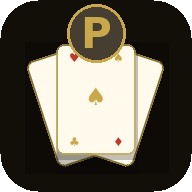
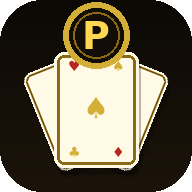
Add files via upload

diff --git a/index.html b/index.html
@@ -236,7 +236,44 @@
   <div id="screen-home" class="screen active">
     <div class="home-header">
       <button class="btn-theme" id="theme-toggle" onclick="toggleTheme()" title="Toggle theme">☀</button>
-      <img src="./icon-192.png" alt="Pattiboard" style="width:72px;height:72px;border-radius:18px;box-shadow:0 4px 20px #00000055;margin-bottom:10px" />
+      <svg xmlns="http://www.w3.org/2000/svg" width="80" height="80" viewBox="0 0 80 80" style="margin-bottom:10px;filter:drop-shadow(0 4px 12px rgba(0,0,0,0.55))">
+  <!-- rounded background -->
+  <rect width="80" height="80" rx="18" fill="url(#bg_grad)"/>
+  <defs>
+    <linearGradient id="bg_grad" x1="0" y1="0" x2="0" y2="1">
+      <stop offset="0%" stop-color="#0f0c06"/>
+      <stop offset="100%" stop-color="#1e1608"/>
+    </linearGradient>
+  </defs>
+  <!-- left card -->
+  <g transform="rotate(-20,40,46)">
+    <rect x="20" y="24" width="30" height="42" rx="3" fill="#fffae6" stroke="#a07820" stroke-width="1"/>
+  </g>
+  <!-- right card -->
+  <g transform="rotate(20,40,46)">
+    <rect x="30" y="24" width="30" height="42" rx="3" fill="#fffae6" stroke="#a07820" stroke-width="1"/>
+  </g>
+  <!-- front card shadow -->
+  <rect x="21" y="29" width="38" height="46" rx="4" fill="rgba(0,0,0,0.25)"/>
+  <!-- front card -->
+  <rect x="21" y="27" width="38" height="46" rx="4" fill="#fffae8"/>
+  <rect x="22.5" y="28.5" width="35" height="43" rx="3" fill="none" stroke="#b08828" stroke-width="1"/>
+  <!-- centre spade -->
+  <text x="40" y="55" font-family="serif" font-size="18" fill="#c9a84c" text-anchor="middle" dominant-baseline="middle">♠</text>
+  <!-- corner pips -->
+  <text x="26" y="35" font-family="serif" font-size="8" fill="#c0392b" text-anchor="middle">♥</text>
+  <text x="54" y="35" font-family="serif" font-size="8" fill="#c9a84c" text-anchor="middle">♠</text>
+  <text x="26" y="67" font-family="serif" font-size="8" fill="#c9a84c" text-anchor="middle">♣</text>
+  <text x="54" y="67" font-family="serif" font-size="8" fill="#c0392b" text-anchor="middle">♦</text>
+  <!-- P badge outer gold ring -->
+  <circle cx="40" cy="16" r="13" fill="#c9a84c"/>
+  <!-- P badge inner dark -->
+  <circle cx="40" cy="16" r="10.5" fill="#120e05"/>
+  <!-- P badge inner ring -->
+  <circle cx="40" cy="16" r="9" fill="none" stroke="#7a5c10" stroke-width="0.8"/>
+  <!-- P letter -->
+  <text x="40" y="16" font-family="DejaVu Sans, Arial, sans-serif" font-weight="bold" font-size="12" fill="#f0c060" text-anchor="middle" dominant-baseline="middle">P</text>
+</svg>
       <h1 class="app-title">Pattiboard</h1>
       <p class="app-subtitle">Rummy Score Tracker</p>
     </div>

diff --git a/sw.js b/sw.js
@@ -1,7 +1,7 @@
 // sw.js — Service Worker for Pattiboard
 // VERSION is embedded in index.html and checked on every load.
 // When index.html changes (new deploy), the SW re-installs and clears old cache.
-const CACHE = 'pattiboard-20260318164642';
+const CACHE = 'pattiboard-202603160624';
 
 const STATIC = [
   './manifest.json',
